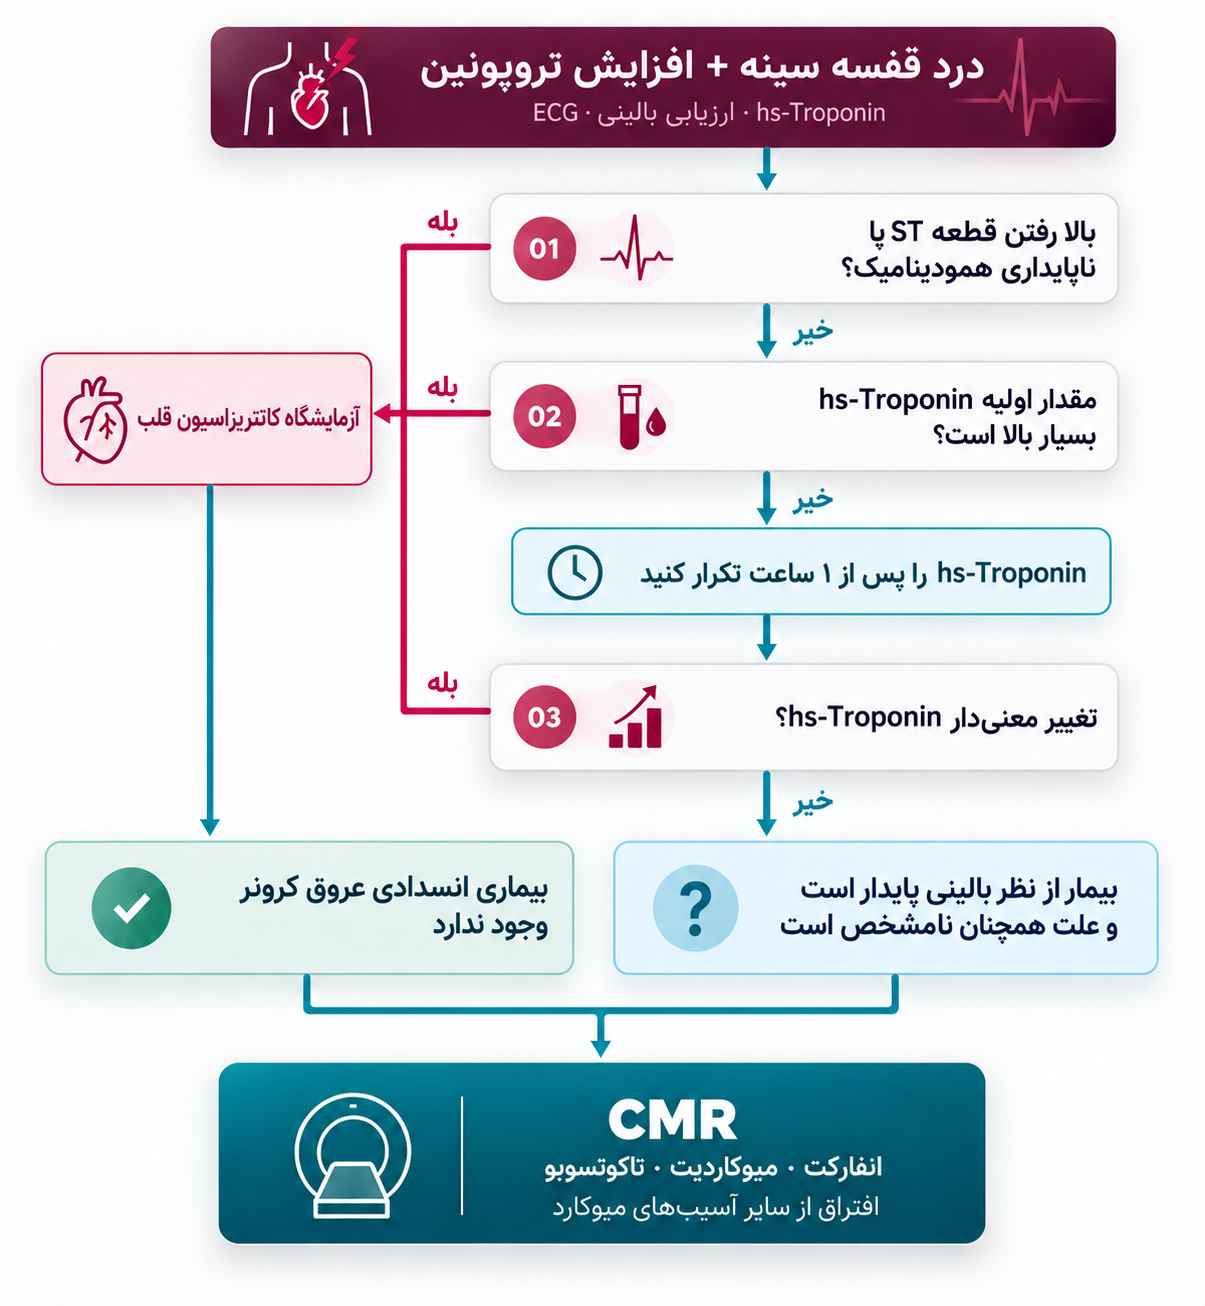
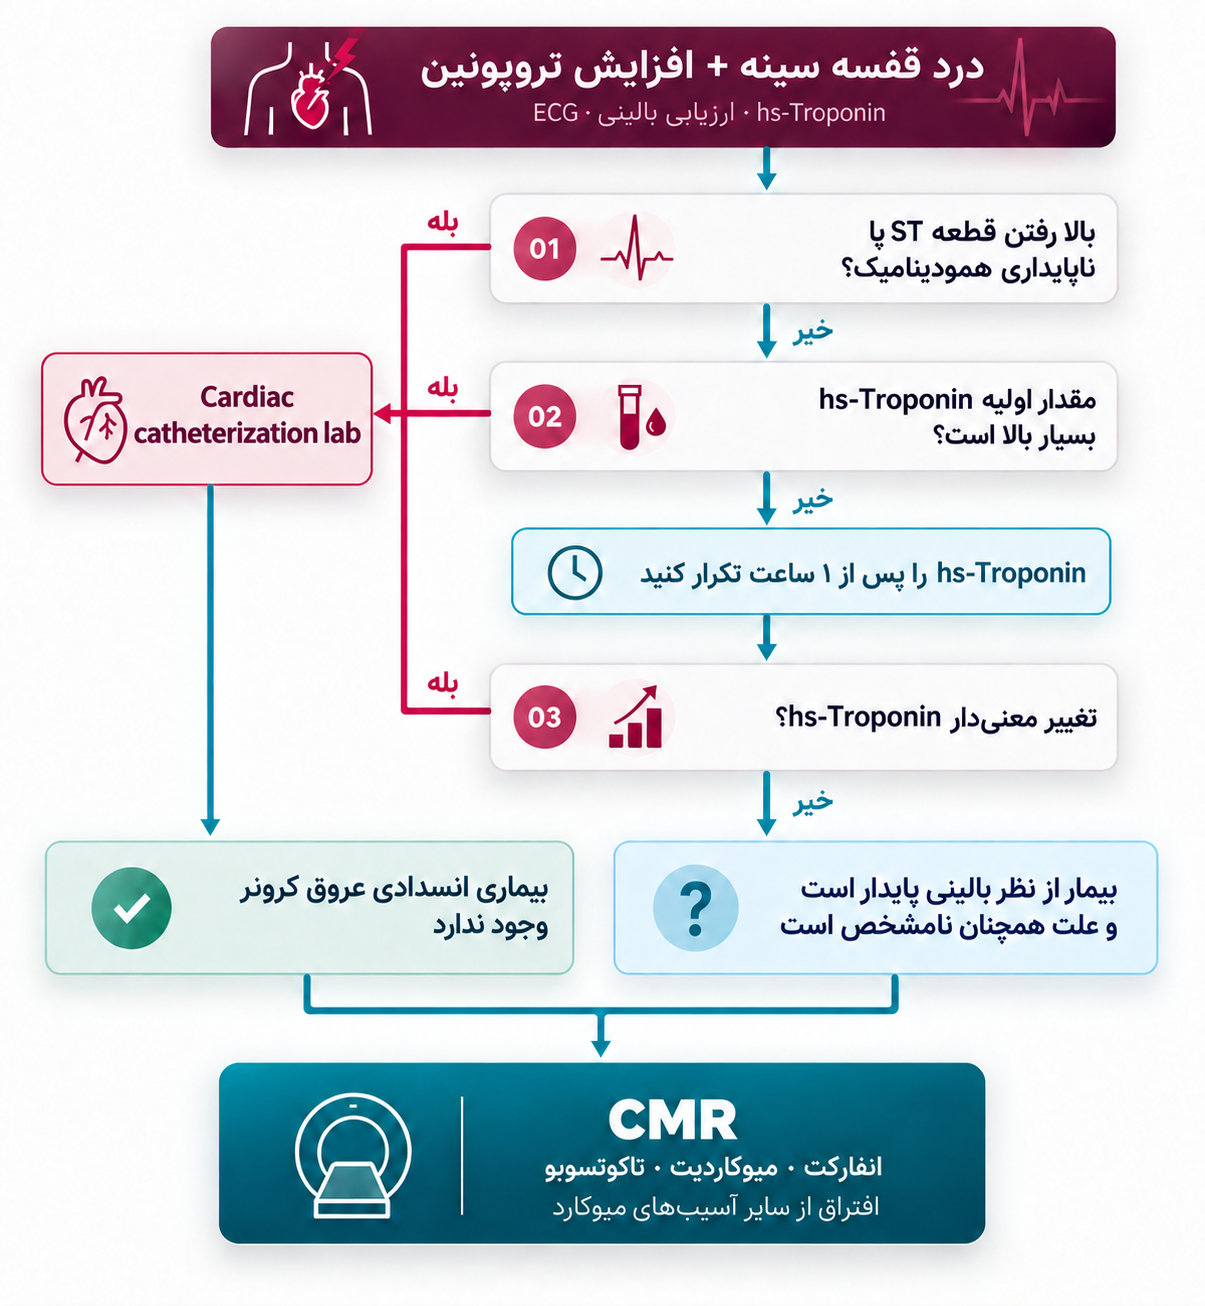
Polish troponin approach layout

diff --git a/app/thorax/kardio/myokardinfarkt-differentialdiagnosen/page.module.css b/app/thorax/kardio/myokardinfarkt-differentialdiagnosen/page.module.css
@@ -22,8 +22,15 @@
 .page :global([class*='heroFacts']) article:nth-child(2){background:color-mix(in srgb,var(--bg-card) 94%,#329aaa 6%)}
 .page :global([class*='heroFacts']) article:nth-child(3){background:color-mix(in srgb,var(--bg-card) 94%,#e73368 6%)}
 .page :global([class*='progressTrack']) i{background:linear-gradient(90deg,var(--mi-deep),var(--mi),var(--mi-teal))}
-.page :global([class*='activeSideItem']){color:#fff;background:linear-gradient(90deg,var(--mi-deep),rgba(50,154,170,.28))}
-.page :global([class*='activeSideItem']) span{color:#ffdce6}
+.lessonLayout{grid-template-columns:260px minmax(0,1fr);gap:22px}
+.lessonSidebar{padding:22px 16px;border-radius:13px}
+.lessonSidebar h2{margin-inline:10px;font-size:1.32rem}
+.sideNavItem{min-height:50px!important;grid-template-columns:38px minmax(0,1fr)!important;gap:10px!important;padding:7px 10px!important;border-radius:9px!important}
+.sideNavItem strong{font-size:.84rem!important;line-height:1.35!important}
+.sideNavItem>span{width:32px!important;height:32px!important}
+.lessonSidebar .sideNavItemActive{color:#fff!important;background:var(--mi-deep)!important;box-shadow:none!important}
+.lessonSidebar .sideNavItemActive:hover{color:#fff!important;background:#6e1b55!important}
+.lessonSidebar .sideNavItemActive>span{border-color:rgba(255,255,255,.42)!important;color:#fff!important;background:rgba(255,255,255,.12)!important;box-shadow:none!important}
 
 .section{scroll-margin-top:106px;border-radius:15px;transition:border-color .18s ease,box-shadow .18s ease}
 .section:has(.sectionHeader[aria-expanded='true']){border-color:rgba(231,51,104,.32);box-shadow:0 18px 44px rgba(86,23,67,.09)}
@@ -80,13 +87,13 @@
 .flowCmr small{color:#91e0e7;font-size:.65rem;font-weight:950;letter-spacing:.12em}.flowCmr strong{font-family:var(--font-display);font-size:1.65rem}.flowCmr p{margin:0;color:rgba(255,255,255,.82);font-size:.79rem;line-height:1.55}
 
 .troponinDifferentials{overflow:hidden;border:1px solid rgba(86,23,67,.18);border-radius:16px;background:var(--bg-card);box-shadow:0 16px 38px rgba(86,23,67,.06)}
-.troponinDifferentials>header{padding:23px 24px 17px;background:linear-gradient(135deg,rgba(231,51,104,.06),rgba(50,154,170,.025))}
-.troponinDifferentials h3{margin:0;color:var(--text-strong);font-family:var(--font-display);font-size:clamp(1.15rem,2vw,1.45rem);font-weight:900;line-height:1.35}
-.differentialTabs{display:grid;grid-template-columns:repeat(4,minmax(0,1fr));gap:8px;padding:0 24px 16px}
-.differentialTabs button{display:grid;grid-template-columns:29px minmax(0,1fr);gap:9px;align-items:center;min-width:0;min-height:78px;padding:13px 12px;border:1px solid var(--border);border-radius:10px;color:var(--text-strong);background:var(--surface-soft);font-family:inherit;text-align:start;cursor:pointer;transition:transform .18s ease,border-color .18s ease,background .18s ease}
+.troponinDifferentials>header{padding:27px 28px 21px;background:linear-gradient(135deg,rgba(231,51,104,.06),rgba(50,154,170,.025))}
+.troponinDifferentials h3{margin:0;color:var(--text-strong);font-family:var(--font-display);font-size:clamp(1.4rem,2.25vw,1.75rem);font-weight:900;line-height:1.3;text-wrap:balance}
+.differentialTabs{display:grid;grid-template-columns:repeat(2,minmax(0,1fr));gap:12px;padding:0 28px 22px}
+.differentialTabs button{display:grid;grid-template-columns:36px minmax(0,1fr);gap:12px;align-items:center;min-width:0;min-height:90px;padding:17px 16px;border:1px solid var(--border);border-radius:11px;color:var(--text-strong);background:var(--surface-soft);font-family:inherit;text-align:start;cursor:pointer;transition:transform .18s ease,border-color .18s ease,background .18s ease}
 .differentialTabs button:hover,.differentialTabs button:focus-visible{transform:translateY(-2px);border-color:rgba(231,51,104,.58);outline:none}
-.differentialTabs button span{display:grid;width:28px;height:28px;place-items:center;border-radius:50%;color:var(--mi-deep);background:rgba(231,51,104,.09);font-size:.64rem;font-weight:950}
-.differentialTabs button strong{min-width:0;font-size:.76rem;line-height:1.4;overflow-wrap:anywhere}
+.differentialTabs button span{display:grid;width:34px;height:34px;place-items:center;border-radius:50%;color:var(--mi-deep);background:rgba(231,51,104,.09);font-size:.7rem;font-weight:950}
+.differentialTabs button strong{min-width:0;font-size:.94rem;line-height:1.45;overflow-wrap:normal;word-break:normal}
 .differentialTabs .differentialTabActive{border-color:var(--mi);color:#fff;background:linear-gradient(135deg,var(--mi-deep),#8f204f);box-shadow:0 10px 24px rgba(86,23,67,.18)}
 .differentialTabs .differentialTabActive span{color:#fff;background:rgba(255,255,255,.16)}
 .differentialDetail{display:grid;min-height:145px;align-content:center;gap:7px;padding:24px;color:#fff;background:linear-gradient(135deg,#0d101b,var(--mi-navy))}
@@ -178,13 +185,19 @@
 
 .rtl .algorithmSteps::before{left:auto;right:24px}
 @media(max-width:980px){
-  .flowDecisionGrid{grid-template-columns:minmax(185px,.7fr) 54px minmax(300px,1.3fr)}.angioHub{padding-inline:18px}.differentialTabs,.patternTabs{grid-template-columns:repeat(2,minmax(0,1fr))}.patternPanel{grid-template-columns:1fr 1fr}
+  .lessonLayout{grid-template-columns:230px minmax(0,1fr);gap:16px}.flowDecisionGrid{grid-template-columns:minmax(185px,.7fr) 54px minmax(300px,1.3fr)}.angioHub{padding-inline:18px}.differentialTabs,.patternTabs{grid-template-columns:repeat(2,minmax(0,1fr))}.patternPanel{grid-template-columns:1fr 1fr}
 }
 @media(max-width:760px){
   .page::before{background-position:60% 18%}
   .heroCopy h1{font-size:clamp(2rem,9.5vw,2.85rem);overflow-wrap:anywhere;hyphens:auto}
   .sectionHeader{padding:16px 15px}.sectionHeader>span:nth-child(2)>strong{font-size:1.12rem;overflow-wrap:anywhere}.sectionBody{padding:6px 16px 24px}
-  .troponinFlowchart{padding:20px 14px}.flowDecisionGrid{display:flex;flex-direction:column;gap:9px}.flowToAngio{display:none}.flowQuestion{order:0;grid-template-columns:34px minmax(0,1fr);width:100%}.flowQuestion .mobileYes{display:block;grid-column:2;color:var(--mi);font:950 .61rem/1.3 inherit;letter-spacing:.07em}.flowNo{order:0;width:100%}.angioHub{order:20;width:100%;min-height:auto;padding:22px}.flowCmrInputs{order:21;grid-template-columns:1fr;gap:8px}.flowCmr{order:22}.differentialTabs{padding-inline:18px}.troponinDifferentials>header{padding-inline:18px}.troponinRemember{grid-template-columns:1fr;gap:7px;margin-inline:18px}.lgeBasics,.layerDiagram,.patternPanel,.infarctSplit,.compareColumns{grid-template-columns:1fr}.lgeBasics article+article{border-inline-start:0;border-top:1px solid var(--border)}.layerDiagram>span{transform:rotate(90deg)}
+  .mobileLearningPath{left:12px!important;width:min(420px,calc(100vw - 24px))!important;filter:none!important}
+  .mobilePathButton{width:100%!important;max-width:none!important;min-height:60px!important;grid-template-columns:44px 36px minmax(0,1fr)!important;gap:10px!important;padding:7px 15px 7px 8px!important;border-radius:16px!important;box-shadow:0 14px 34px rgba(2,6,23,.2)!important}
+  .mobilePathPanel{left:12px!important;width:min(420px,calc(100vw - 24px))!important;border-radius:16px!important}
+  .mobileProgressRing{width:44px!important;height:44px!important;background:conic-gradient(var(--mi-teal) var(--mobile-progress),rgba(86,23,67,.18) 0)!important}
+  .mobileProgressRing::before{inset:3px!important}
+  .mobileCurrentIcon{width:36px!important;height:36px!important;border:0!important;border-radius:10px!important;color:#fff!important;background:var(--mi-deep)!important;box-shadow:none!important}
+  .lessonLayout{grid-template-columns:1fr}.troponinFlowchart{padding:20px 14px}.flowDecisionGrid{display:flex;flex-direction:column;gap:9px}.flowToAngio{display:none}.flowQuestion{order:0;grid-template-columns:34px minmax(0,1fr);width:100%}.flowQuestion .mobileYes{display:block;grid-column:2;color:var(--mi);font:950 .61rem/1.3 inherit;letter-spacing:.07em}.flowNo{order:0;width:100%}.angioHub{order:20;width:100%;min-height:auto;padding:22px}.flowCmrInputs{order:21;grid-template-columns:1fr;gap:8px}.flowCmr{order:22}.differentialTabs{grid-template-columns:1fr;padding-inline:18px}.troponinDifferentials>header{padding-inline:18px}.troponinRemember{grid-template-columns:1fr;gap:7px;margin-inline:18px}.lgeBasics,.layerDiagram,.patternPanel,.infarctSplit,.compareColumns{grid-template-columns:1fr}.lgeBasics article+article{border-inline-start:0;border-top:1px solid var(--border)}.layerDiagram>span{transform:rotate(90deg)}
   .patternPanel figure{min-height:320px}.patternPanel>div{padding:23px}.mvoBox{grid-template-columns:90px minmax(0,1fr);gap:16px}.mvoMark>span{width:72px;height:72px;border-width:15px}
   .sources>div{grid-template-columns:1fr}.inflammationTable{overflow-x:auto}.inflammationTable>div{min-width:650px}.rule{grid-template-columns:1fr}
 }

diff --git a/app/thorax/kardio/myokardinfarkt-differentialdiagnosen/page.js b/app/thorax/kardio/myokardinfarkt-differentialdiagnosen/page.js
@@ -32,7 +32,7 @@ const COPY = {
 }
 
 const SECTIONS = [
-  { id: 'ausgangspunkt', label: L('Ausgangspunkt: Troponinanstieg', 'Starting point: troponin rise', 'نقطه شروع: افزایش تروپونین') },
+  { id: 'ausgangspunkt', label: L('Vorgehen bei erhöhtem Troponin', 'Approach to elevated troponin', 'رویکرد به افزایش تروپونین') },
   { id: 'lge-muster', label: L('Late Gadolinium Enhancement (LGE)', 'Late gadolinium enhancement (LGE)', 'Late Gadolinium Enhancement (LGE)') },
   { id: 'infarkt', label: L('Akuter & chronischer Infarkt', 'Acute & chronic infarction', 'انفارکت حاد و مزمن') },
   { id: 'minoca-takotsubo', label: L('MINOCA & Takotsubo', 'MINOCA & Takotsubo', 'MINOCA و تاکوتسوبو') },
@@ -175,7 +175,7 @@ const TROPONIN_GRAPHICS = {
   fa: {
     src: '/thorax/kardio/myokardinfarkt-differentialdiagnosen/troponin-pathway-fa.png',
     title: 'مسیر تصمیمگیری در درد قفسه سینه و افزایش تروپونین',
-    alt: 'مسیر تصمیمگیری در درد قفسه سینه و افزایش تروپونین: ارجاع به آزمایشگاه کاتتریزاسیون قلب در بالا رفتن قطعه ST، ناپایداری همودینامیک، مقدار اولیه بسیار بالا یا تغییر معنیدار تروپونین؛ انجام CMR در نبود بیماری انسدادی عروق کرونر یا باقی ماندن علت نامشخص در بیمار پایدار.',
+    alt: 'مسیر تصمیمگیری در درد قفسه سینه و افزایش تروپونین: ارجاع به Cardiac catheterization lab در بالا رفتن قطعه ST، ناپایداری همودینامیک، مقدار اولیه بسیار بالا یا تغییر معنیدار تروپونین؛ انجام CMR در نبود بیماری انسدادی عروق کرونر یا باقی ماندن علت نامشخص در بیمار پایدار.',
   },
 }
 
@@ -282,9 +282,9 @@ function MobilePath({ lang, openId, readSections, onSelect }) {
   const current = SECTIONS.find(section => section.id === openId) || SECTIONS[0]
   const progress = (readSections.size / SECTIONS.length) * 360
   const select = id => { onSelect(id); setPanelOpen(false) }
-  return <div className={template.mobileLearningPath}>
-    {panelOpen ? <section id="mi-dd-mobile-path" className={template.mobilePathPanel} role="dialog" aria-label={pick(COPY.path, lang)}><header><div><small>{pick(COPY.progress, lang)}</small><strong>{readSections.size} / {SECTIONS.length}</strong></div><button type="button" onClick={() => setPanelOpen(false)} aria-label={pick(COPY.close, lang)}>×</button></header><nav>{SECTIONS.map(section => <button type="button" key={section.id} className={openId === section.id ? template.mobilePathCurrent : ''} onClick={() => select(section.id)} aria-current={openId === section.id ? 'location' : undefined}><span className={template.mobilePathItemIcon}><SectionIcon id={section.id} /></span><span><strong>{pick(section.label, lang)}</strong><small>{pick(section.label, lang)}</small></span><i aria-hidden="true">{readSections.has(section.id) ? '✓' : ''}</i></button>)}</nav></section> : null}
-    <button type="button" className={template.mobilePathButton} onClick={() => setPanelOpen(value => !value)} aria-expanded={panelOpen} aria-controls="mi-dd-mobile-path"><span className={template.mobileProgressRing} style={{ '--mobile-progress': `${progress}deg` }}><b>{readSections.size}</b><small>/{SECTIONS.length}</small></span><span className={template.mobileCurrentIcon}><SectionIcon id={current.id} /></span><span className={template.mobilePathLabel}><strong>{pick(COPY.path, lang)}</strong><small>{pick(current.label, lang)}</small></span></button>
+  return <div className={`${template.mobileLearningPath} ${styles.mobileLearningPath}`}>
+    {panelOpen ? <section id="mi-dd-mobile-path" className={`${template.mobilePathPanel} ${styles.mobilePathPanel}`} role="dialog" aria-label={pick(COPY.path, lang)}><header><div><small>{pick(COPY.progress, lang)}</small><strong>{readSections.size} / {SECTIONS.length}</strong></div><button type="button" onClick={() => setPanelOpen(false)} aria-label={pick(COPY.close, lang)}>×</button></header><nav>{SECTIONS.map(section => <button type="button" key={section.id} className={openId === section.id ? template.mobilePathCurrent : ''} onClick={() => select(section.id)} aria-current={openId === section.id ? 'location' : undefined}><span className={template.mobilePathItemIcon}><SectionIcon id={section.id} /></span><span><strong>{pick(section.label, lang)}</strong><small>{pick(section.label, lang)}</small></span><i aria-hidden="true">{readSections.has(section.id) ? '✓' : ''}</i></button>)}</nav></section> : null}
+    <button type="button" className={`${template.mobilePathButton} ${styles.mobilePathButton}`} onClick={() => setPanelOpen(value => !value)} aria-expanded={panelOpen} aria-controls="mi-dd-mobile-path"><span className={`${template.mobileProgressRing} ${styles.mobileProgressRing}`} style={{ '--mobile-progress': `${progress}deg` }}><b>{readSections.size}</b><small>/{SECTIONS.length}</small></span><span className={`${template.mobileCurrentIcon} ${styles.mobileCurrentIcon}`}><SectionIcon id={current.id} /></span><span className={template.mobilePathLabel}><strong>{pick(COPY.path, lang)}</strong><small>{pick(current.label, lang)}</small></span></button>
   </div>
 }
 
@@ -329,7 +329,7 @@ export default function MyocardialInfarctionDifferentialPage() {
       <div className={template.hero}><div className={`${template.heroCopy} ${styles.heroCopy}`}><h1>{pick(COPY.title, lang)}</h1><div className={template.actions}><button type="button" className={template.primaryAction} onClick={() => jumpTo('algorithmus')}>{pick(COPY.start, lang)}<span aria-hidden="true">→</span></button></div></div><div className={template.heroFacts}>{facts.map(([value, description, icon]) => <article key={pick(value, lang)}><span className={template.factIcon}><SectionIcon id={icon} /></span><strong>{pick(value, lang)}</strong><p>{pick(description, lang)}</p></article>)}</div></div>
       <div className={template.progressBar}><div className={template.progressTrack}><i style={{ width: `${(readSections.size / SECTIONS.length) * 100}%` }} /></div><span>{readSections.size} / {SECTIONS.length} {pick(COPY.progress, lang)}</span><div className={template.progressActions}><button type="button" className={`${template.lessonCompleteButton} ${lessonComplete ? template.lessonCompleteButtonDone : ''}`} aria-pressed={lessonComplete} onClick={toggleLessonComplete}><SectionIcon id="takehome" />{pick(lessonComplete ? COPY.lessonCompleted : COPY.completeLesson, lang)}</button><button type="button" className={template.continueButton} onClick={advance} disabled={activeIndex === SECTIONS.length - 1}>{pick(COPY.continue, lang)}<span aria-hidden="true">→</span></button></div></div>
     </header>
-    <div className={template.layout}><aside className={template.sidebar}><h2>{pick(COPY.path, lang)}</h2><nav>{SECTIONS.map(section => <button type="button" key={section.id} className={openId === section.id ? template.activeSideItem : ''} onClick={() => jumpTo(section.id)} aria-current={openId === section.id ? 'location' : undefined} aria-label={`${pick(COPY.open, lang)}: ${pick(section.label, lang)}`}><span className={template.sideIcon}><SectionIcon id={section.id} /></span><strong>{pick(section.label, lang)}</strong></button>)}</nav></aside><article className={template.lesson}><LessonContext.Provider value={{ lang, openId, readSections, selectSection, toggleSectionRead }}><LessonContent lang={lang} /></LessonContext.Provider></article></div>
+    <div className={`${template.layout} ${styles.lessonLayout}`}><aside className={`${template.sidebar} ${styles.lessonSidebar}`}><h2>{pick(COPY.path, lang)}</h2><nav>{SECTIONS.map(section => <button type="button" key={section.id} className={`${styles.sideNavItem} ${openId === section.id ? `${template.activeSideItem} ${styles.sideNavItemActive}` : ''}`} onClick={() => jumpTo(section.id)} aria-current={openId === section.id ? 'location' : undefined} aria-label={`${pick(COPY.open, lang)}: ${pick(section.label, lang)}`}><span className={template.sideIcon}><SectionIcon id={section.id} /></span><strong>{pick(section.label, lang)}</strong></button>)}</nav></aside><article className={template.lesson}><LessonContext.Provider value={{ lang, openId, readSections, selectSection, toggleSectionRead }}><LessonContent lang={lang} /></LessonContext.Provider></article></div>
     <MobilePath lang={lang} openId={openId} readSections={readSections} onSelect={jumpTo} />
   </main>
 }
